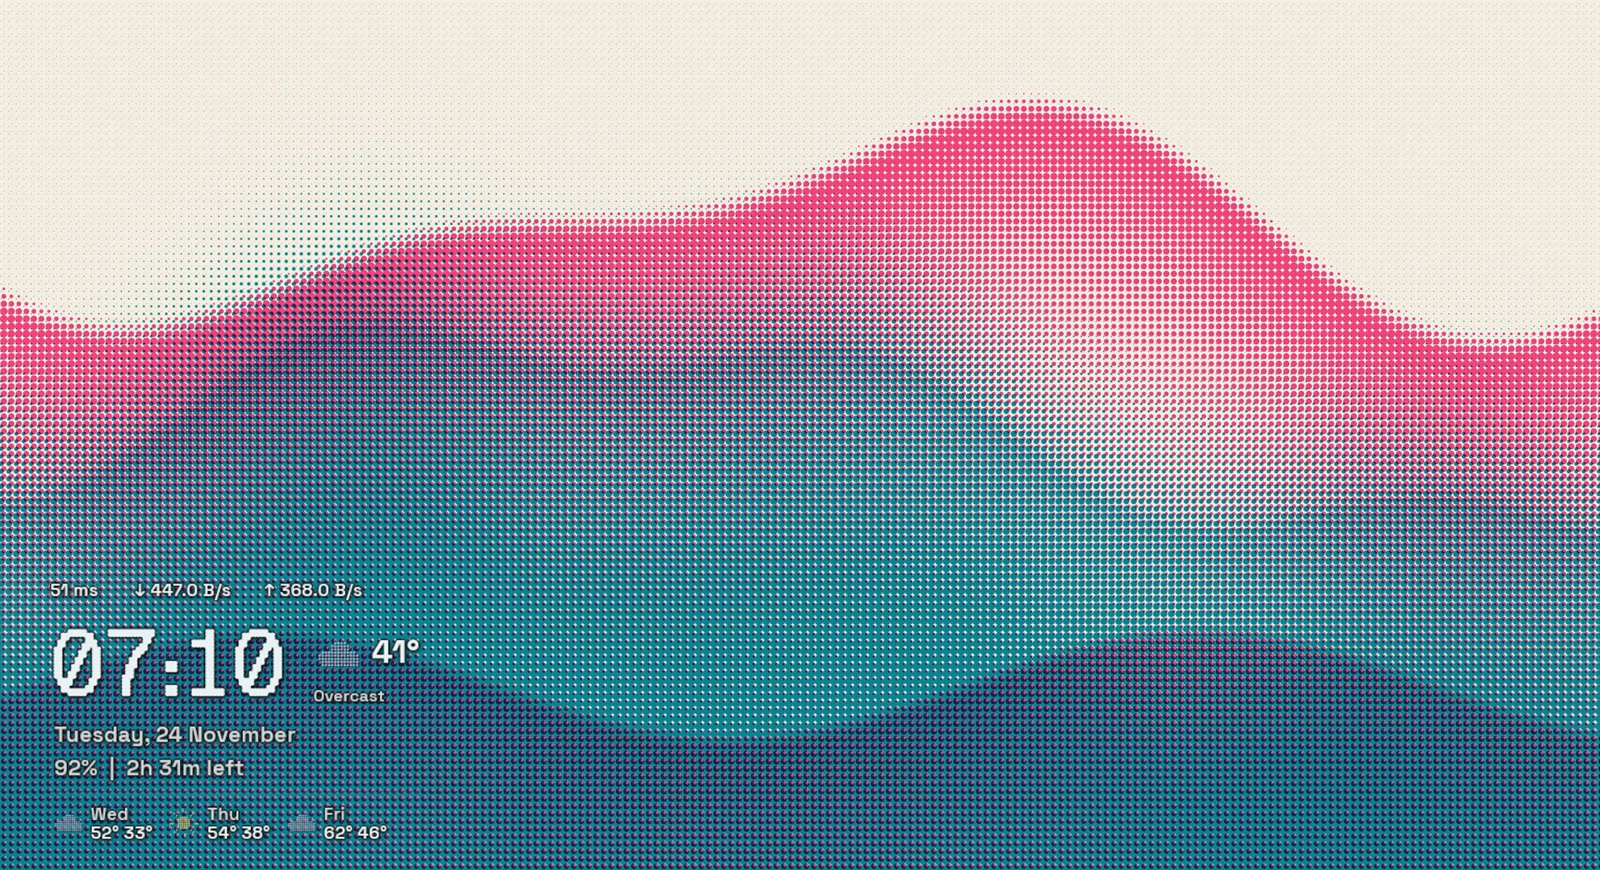
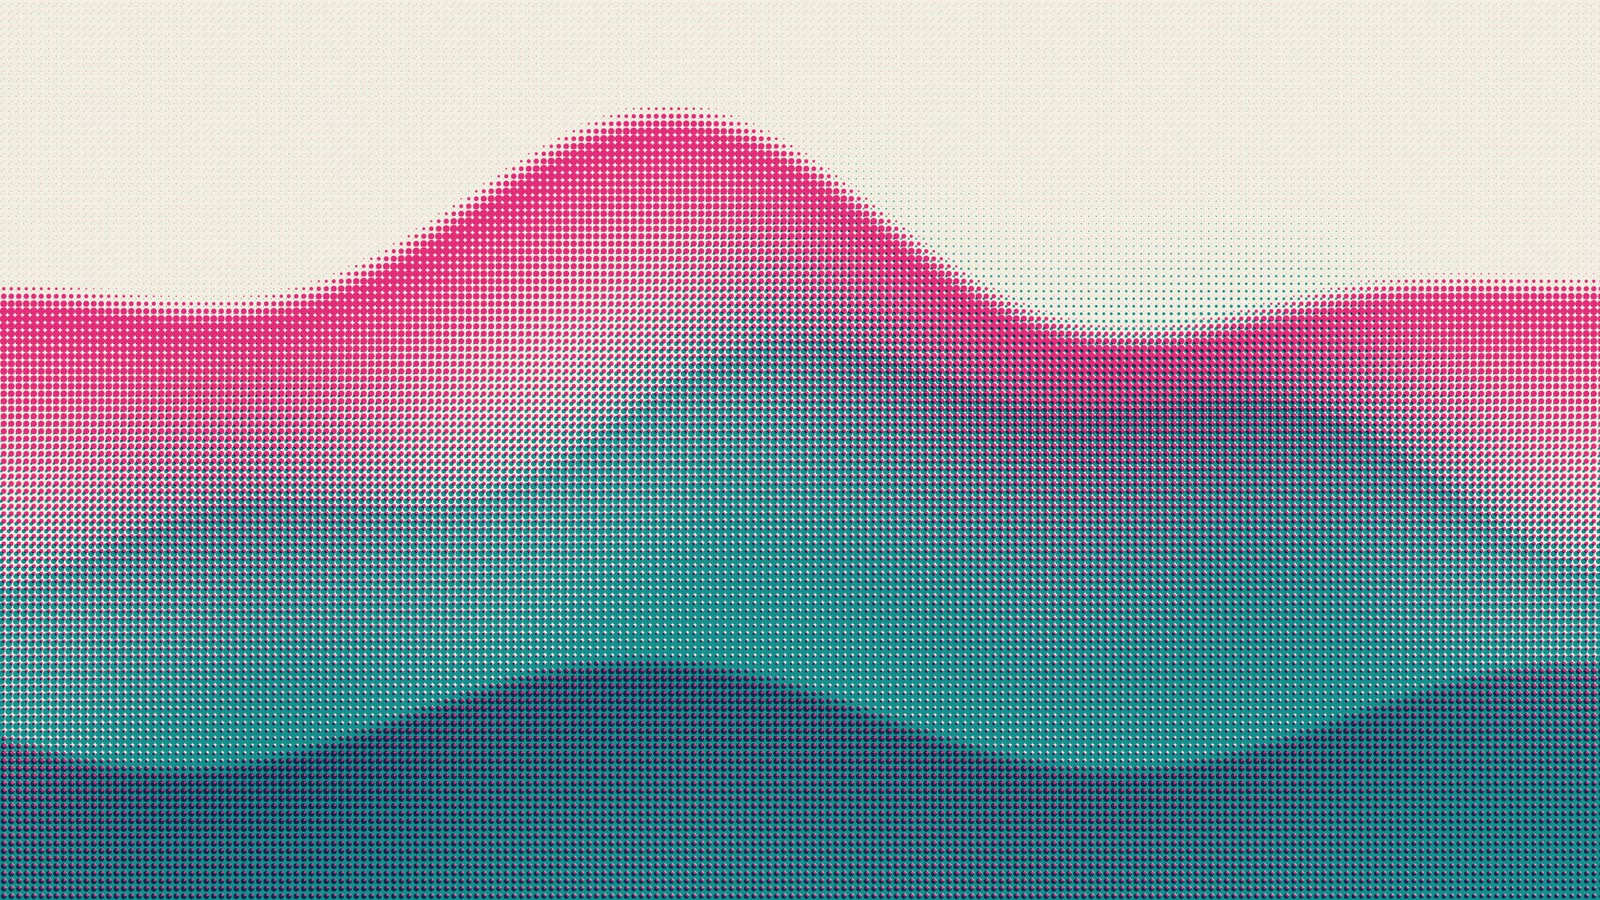
Show the wallpapers on their own in the README screenshots
Re-rendered every screenshot, the gallery and the shore GIF straight from the style videos, so no widgets appear.

diff --git a/README.md b/README.md
@@ -2,11 +2,11 @@
 
 **Loopscape** is a live wallpaper for Windows 10 and 11. It plays looping animated landscapes (shores, pixel clouds, auroras, nebulas and more) behind your desktop icons, with dark styles at night. It comes with desktop widgets for Rainmeter: a clock with battery and weather, Wi‑Fi and network details, a Now Showing card for the wallpaper itself, and optional Sun & Moon, Rain, System and Calendar widgets. They live in `Documents\Rainmeter\Skins\Loopscape`.
 
-![Riso style with the Loopscape widgets](screenshots/riso.jpg)
+![The riso style](screenshots/riso.jpg)
 
 ## Screenshots
 
-Each style is a looping video; the widgets snap to a spot that suits it.
+Each style is a looping video. The screenshots show the wallpaper on its own, without widgets.
 
 ![The shore style animating](screenshots/shore.gif)
 
